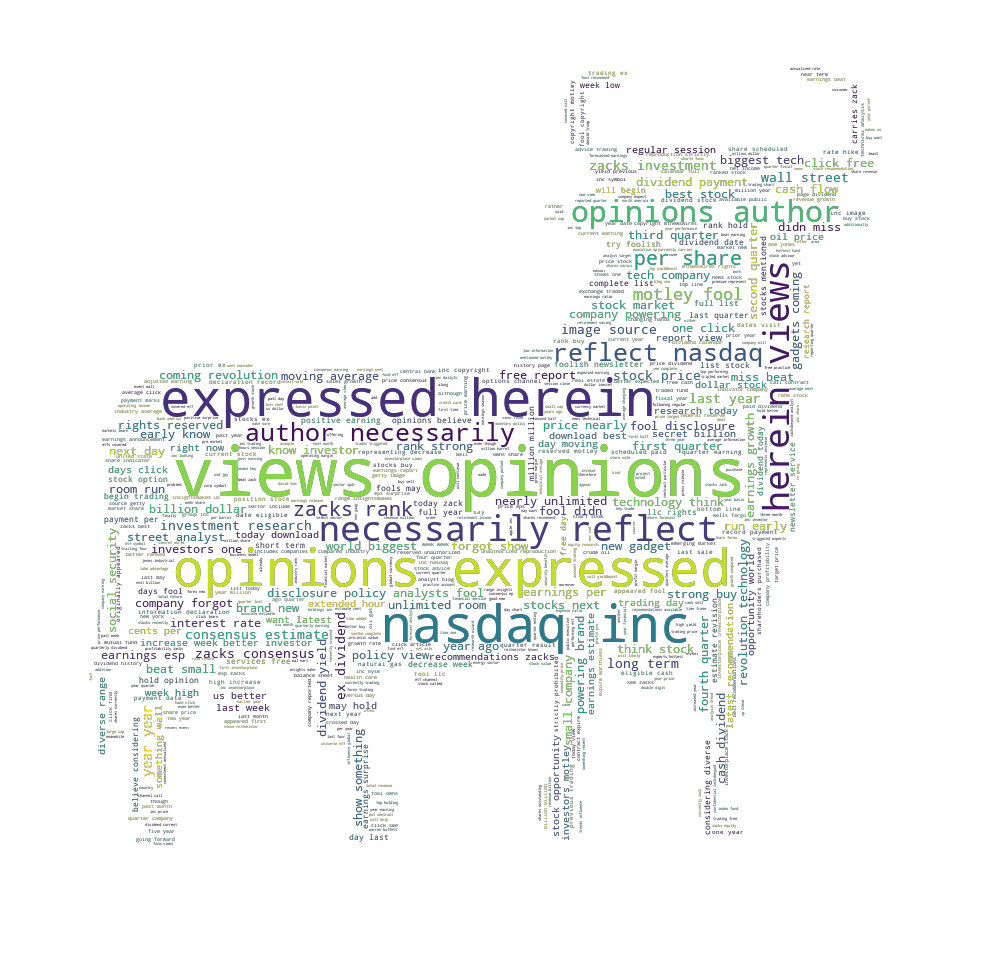
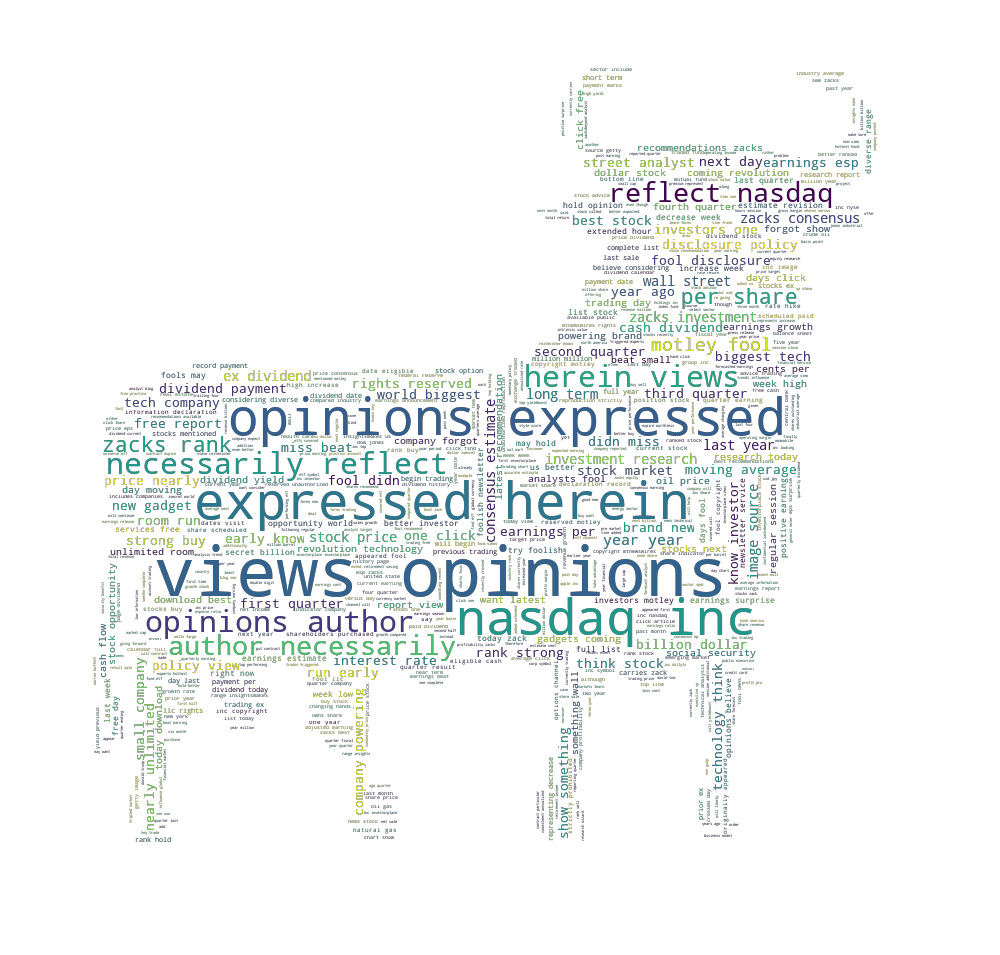
no message

Changed region(s): [[0.093, 0.0911, 0.899, 0.8806], [0.558, 0.0607, 0.62, 0.1518], [0.806, 0.0607, 0.837, 0.0911]]

diff --git a/nasdaq/LDA_NASDAQ.py b/nasdaq/LDA_NASDAQ.py
@@ -5,6 +5,14 @@ Created on Tue May  8 09:34:47 2018
 
 @author: verani
 """
+#please install the modules before you run this code:
+#!pip install nltk
+#!pip install numpy
+#!pip install matplotlib
+#!pip install Pillow
+
+# please download the data from 
+# https://drive.google.com/open?id=1YU6WgUffJj73q23tMB1ipUUzTzXSI6RJ
 
 import os
 import json
@@ -18,14 +26,12 @@ from nltk.corpus import stopwords
 from wordcloud import WordCloud, STOPWORDS
 import numpy as np
 from os import path
-
 import matplotlib.pyplot as plt
-
 import nltk
-
 from PIL import Image
 
-
+# Please change the working directory to your path!
+os.chdir("/Users/xinwenni/LDA-DTM/nasdaq") 
 root_path= os.getcwd()
 
 with open(root_path + '/NASDAQ_News_2016.json', 'r') as json_file:
@@ -44,20 +50,6 @@ for i in range(n):
 string= ""
 allT=string.join(All)
 
-
-
-#subsample=nasdaq_news_2016[0:10]
-#n_sample=len(subsample)
-#sample1=''.split()
-#for i in range(2):
-#    temp1=subsammple[i]
-#    temp2=temp1['article_content']
-#    sample1.append(temp2)
-#
-#string= ""
-#sampleTXT=string.join(sample1)
-
-
 expression = "[^a-zA-Z0-9 ]" # keep only letters, numbers and whitespace
 cleantextCAP = re.sub(expression, ' ', allT) # apply regex
 cleantext = cleantextCAP.lower() # lower case 
@@ -66,11 +58,6 @@ cleantext = cleantextCAP.lower() # lower case
 text_file = open("Output_content.txt", "w")
 text_file.write(str(cleantext))
 text_file.close()
-
-
-#wordcloud 
-# Read the whole text.
-
 
 with open(path.join(root_path, 'Output_content.txt'), 'r', encoding='utf-8', errors='ignore') as outout_file:
     text = outout_file.readlines()
@@ -93,6 +80,10 @@ wc.generate(text[0])
 # store to file
 wc.to_file(path.join(root_path, "wordcloud_nasdaq_content.png"))
 
+# to show the picture 
+plt.imshow(wc, interpolation='bilinear')
+plt.axis("off")# 关掉图像的坐标
+plt.show()
 
 
 

diff --git a/Speech_XiJinping/LDA_speech_xi.py b/Speech_XiJinping/LDA_speech_xi.py
@@ -1,5 +1,5 @@
 # coding:utf-8
-# please in stall the following module if you haven't yet.
+# please install the following module if you haven't yet.
 
 #!pip install wordcloud
 #!pip install jieba
